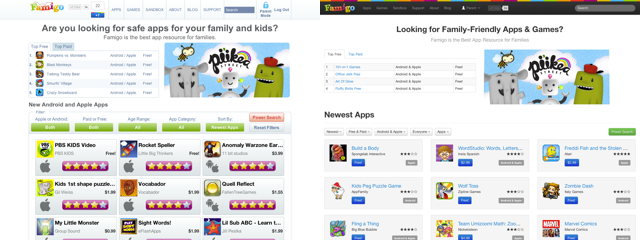
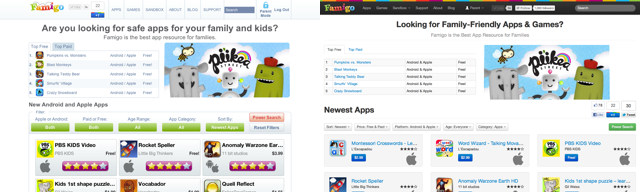
Finish post about Twitter Bootstrap.

diff --git a/_posts/2012-02-08-rebuilding-famigo-with-twitter-bootstrap.md b/_posts/2012-02-08-rebuilding-famigo-with-twitter-bootstrap.md
@@ -1,7 +1,6 @@
 ---
 layout: post
 title: Rebuilding Famigo with Twitter Bootstrap
-published: false
 ---
 
 Over the past week, I rebuilt [Famigo's website][1] using the
@@ -52,6 +51,23 @@ Now the tiles have been refactored into a separate template file.
 They're styled with reusable styles defined in one CSS file. A
 single JavaScript file handles every user interaction with them.
 
+## Moving Forward
+
+We still have a lot of work to do. One of our top priorities at
+this point is not looking like a "bootstrap site". Not to say that
+we're not a fan of how it looks -- we are. But as anyone who has
+used the [default WordPress theme][11] can tell you, you need to
+be unique.
+
+We're looking forward to customizing the bootstrap, though. It was
+so easy to get everything set up with the defaults that we're
+assuming tinkering with it will be a piece of cake.
+
+[![Screenshot of new site][12]][13]
+
+Please send feedback about the new site to [taylor@fausak.me][14].
+I'd love to hear what you think about it!
+
 [1]: http://www.famigo.com/
 [2]: http://twitter.github.com/bootstrap/
 [3]: /static/images/2012-02-08-figure-1.png
@@ -62,3 +78,7 @@ single JavaScript file handles every user interaction with them.
 [8]: http://lessframework.com/
 [9]: /2011/11/02/applists-playlists-for-your-apps/
 [10]: /static/images/2012-02-08-figure-3.png
+[11]: http://wordpress.org/extend/themes/default
+[12]: /static/images/2012-02-08-figure-4.png
+[13]: http://www.famigo.com/best-free-games/
+[14]: mailto:taylor@fausak.me
